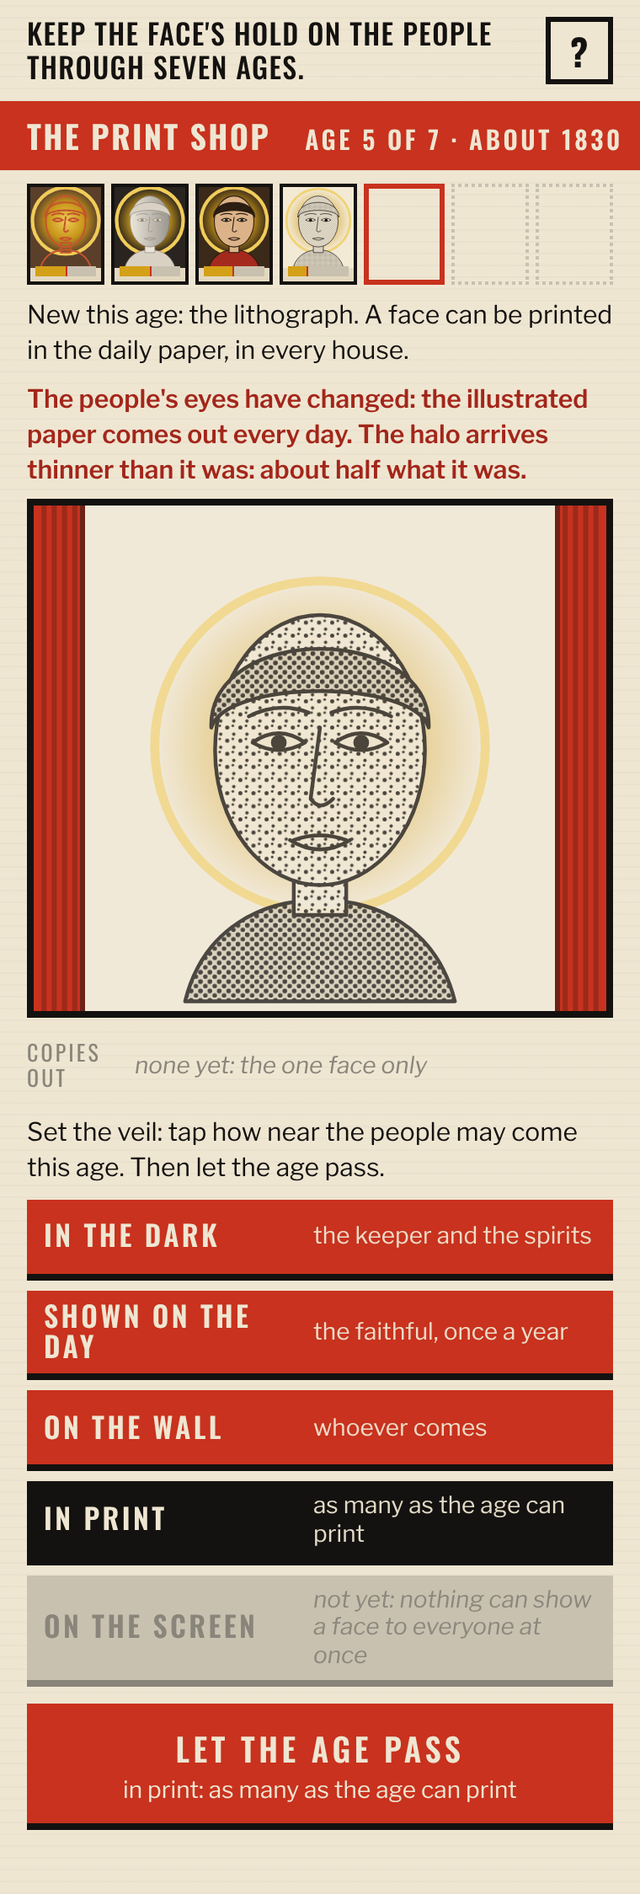
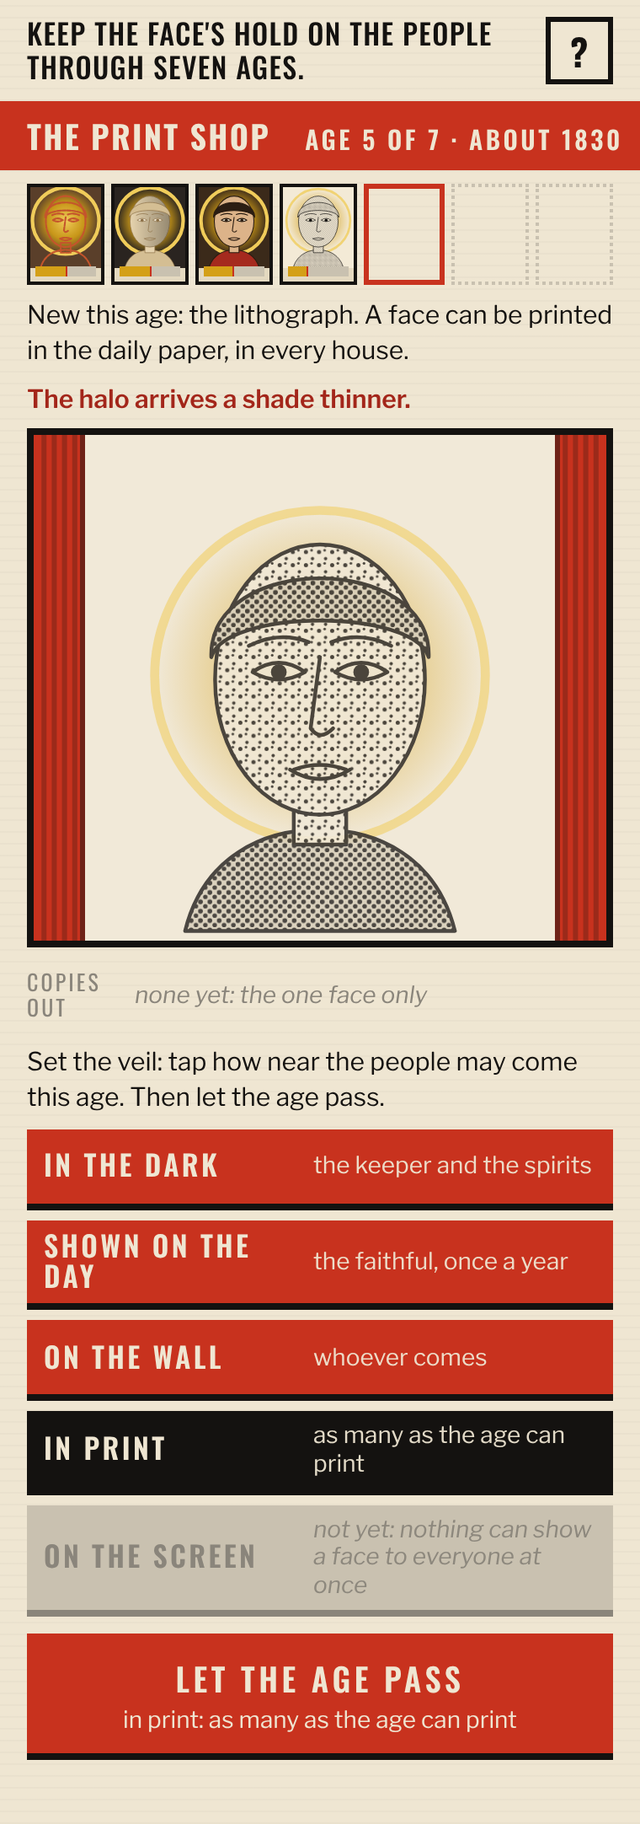
Benjamin's Veil: revisions after a first play
The picture carries over between ages; copies accumulate in the margin;
warm marble in the temple; the cause of the thinning said once, at the
photograph; the cathedral's announcement matches its options; the
announcements name places, never a veil state.

Claude-Session: https://claude.ai/code/session_018niUhzBZdEpLFr6WqyTscQ

Changed region(s): [[0.0, 0.0, 1.0, 0.9908], [0.6658, 0.0, 0.6961, 0.031]]

diff --git a/benjamin/benjamins-veil.html b/benjamin/benjamins-veil.html
@@ -229,7 +229,7 @@ h2{font-family:var(--display);font-weight:600;text-transform:uppercase;letter-sp
     AGES: [
       { key: 'cave', name: 'THE CAVE', date: 'LONG AGO', ceiling: 1, eyes: 1, demand: 0,
         technique: 'cave',
-        newThis: 'No way to copy a face yet. It is painted on the wall, for the spirits.',           // section V: the elk, a magic instrument
+        newThis: 'No way to copy a face yet. It is painted on the wall of the cave.',           // section V: the elk, a magic instrument
         eyesLine: null,
         notYet: 'nothing can carry it farther',
         reach: [0.02, 0.12, 0.2, 0.3, 0.9], crowd: ['you and the spirits', 'the clan', 'the clan', '', ''] },
@@ -241,7 +241,7 @@ h2{font-family:var(--display);font-weight:600;text-transform:uppercase;letter-sp
         reach: [0.02, 0.15, 0.22, 0.3, 0.9], crowd: ['you and the god', 'the city, at the festival', 'the city, in the forecourt', '', ''] },
       { key: 'cathedral', name: 'THE CATHEDRAL', date: 'THE MIDDLE AGES', ceiling: 2, eyes: 0.95, demand: 0.2,
         technique: 'icon',
-        newThis: 'New this age: the woodcut. A face can be cut in wood and printed, roughly, a few dozen times. Yours hangs veiled in the choir.', // section I; section V
+        newThis: 'New this age: the woodcut. Saints are being cut in wood and printed in the market, roughly — too roughly for this face. Yours hangs in the choir.', // section I; section V
         eyesLine: 'there are woodcuts of saints in the market now',
         notYet: 'the woodcut is too rough for this face',
         reach: [0.02, 0.18, 0.25, 0.3, 0.9], crowd: ['you and the saints', 'the parish, on the feast day', 'the parish, in the nave', '', ''] },
@@ -260,7 +260,7 @@ h2{font-family:var(--display);font-weight:600;text-transform:uppercase;letter-sp
       { key: 'studio', name: 'THE STUDIO', date: 'ABOUT 1880', ceiling: 3, eyes: 0.4, demand: 0.7,
         technique: 'halftone',
         newThis: 'New this age: the photograph. A face can be taken in a second and printed without end, into every house and every hand.', // section I; section VI
-        eyesLine: 'everyone has a photograph of their dead',
+        eyesLine: 'everyone has a photograph of their dead', sayCause: true, // the cause is said once, here (revision 4)
         notYet: 'the film is not here yet',
         reach: [0.02, 0.2, 0.3, 0.75, 0.9], crowd: ['you and the vault', 'the town, on the day', 'whoever comes to the museum', 'every house and every hand', ''] },
       { key: 'cinema', name: 'THE CINEMA', date: 'ABOUT 1930', ceiling: 4, eyes: 0.2, demand: 0.9,
@@ -347,8 +347,9 @@ h2{font-family:var(--display);font-weight:600;text-transform:uppercase;letter-sp
   function arrivalLine(s) {
     const age = currentAge(s);
     if (!age.eyesLine || s.haloBefore <= CONFIG.HALO_GONE) return '';
-    const changed = s.halo <= CONFIG.HALO_GONE ? 'The halo is gone.' : (s.halo < s.haloBefore * 0.97 ? 'The halo arrives thinner than it was: ' + haloWords(s.halo) + '.' : 'The halo arrives as it was.');
-    return 'The people\'s eyes have changed: ' + age.eyesLine + '. ' + changed;
+    const changed = s.halo <= CONFIG.HALO_GONE ? 'The halo is gone.' : (s.halo < s.haloBefore * 0.97 ? (haloWords(s.halo) === haloWords(s.haloBefore) ? 'The halo arrives a shade thinner.' : 'The halo arrives thinner than it was: ' + haloWords(s.halo) + '.') : 'The halo arrives as it was.');
+    // the fact every age; the cause (the people's eyes) once, at the age that carries it (the photograph)
+    return age.sayCause ? 'The people\'s eyes have changed: ' + age.eyesLine + '. ' + changed : changed;
   }
   function options(s) {
     const age = currentAge(s);
@@ -494,7 +495,7 @@ h2{font-family:var(--display);font-weight:600;text-transform:uppercase;letter-sp
   // ---------- the face, in the technique of its age (interface only: no rule lives here)
   const TECH = {
     cave:      { bg: '#5A3F2A', skin: 'none', line: '#C4552C', lw: 5, dash: '10 4', hair: 'none', robe: 'none', opacity: 1 },
-    temple:    { bg: '#2A2420', skin: '#ECE6DA', line: '#8D847A', lw: 1.6, hair: '#D9D2C4', robe: '#D9D2C4', shade: true },
+    temple:    { bg: '#2A2420', skin: '#E6D3AE', line: '#8A6E45', lw: 1.6, hair: '#D4BE93', robe: '#D4BE93', shade: true },  // warm stone on a dark cella (revision 3)
     icon:      { bg: '#3B2A1A', skin: '#DCB389', line: '#2B1D12', lw: 2.6, hair: '#2B1D12', robe: '#A52A1E' },
     engraving: { bg: '#F3EAD6', skin: 'hatch', line: INK, lw: 1.6, hair: 'cross', robe: 'cross' },
     litho:     { bg: '#F1E9D8', skin: 'stipple', line: '#3A3632', lw: 2, hair: 'stipple2', robe: 'stipple2', soft: true },
@@ -593,6 +594,8 @@ h2{font-family:var(--display);font-weight:600;text-transform:uppercase;letter-sp
 
   // ---------- state and screens
   let S = M.newGame(); let picked = null; let forkPicked = null; let lastScreen = 'start';
+  let copiesMade = []; // {tech, count} per age that printed; presentation only, the counts follow reach
+  const lastN = () => S.results.length ? C.VEILS[S.results[S.results.length - 1].veil].n : 0; // where the keeper left the curtains
   function show(id) { document.querySelectorAll('.screen').forEach(e => e.classList.remove('on')); $(id).classList.add('on'); window.scrollTo(0, 0); }
   function words(x) { return M.haloWords(x); }
 
@@ -610,8 +613,9 @@ h2{font-family:var(--display);font-weight:600;text-transform:uppercase;letter-sp
     renderStrip($('strip'), S);
     $('newthis').textContent = a.newThis;
     const al = M.arrivalLine(S); $('arrive').textContent = al; $('arrive').style.display = al ? 'block' : 'none';
-    drawFrame($('frame'), a.technique, S.halo, 0, 0);
-    $('copies').innerHTML = `<span class="lab">Copies out</span><span class="none">none yet: the one face only</span>`;
+    drawFrame($('frame'), a.technique, S.halo, lastN(), 0);  // the world as the player left it: last age's curtains, this age's halo, no crowd yet
+    $('frame').dataset.n = lastN();
+    renderCopies(null);
     const opts = M.options(S);
     $('veils').innerHTML = opts.map(o => `<button class="veil" data-i="${o.index}" ${o.allowed ? '' : 'disabled'}><span class="k">${o.label}</span><span class="w">${o.allowed ? o.who : 'not yet: ' + o.why}</span></button>`).join('');
     $('veils').querySelectorAll('.veil').forEach(b => b.addEventListener('click', () => pickVeil(+b.dataset.i)));
@@ -623,6 +627,7 @@ h2{font-family:var(--display);font-weight:600;text-transform:uppercase;letter-sp
     picked = i; const a = M.currentAge(S), v = C.VEILS[i];
     $('veils').querySelectorAll('.veil').forEach(b => b.classList.toggle('chosen', +b.dataset.i === i));
     drawFrame($('frame'), a.technique, S.halo, v.n, 0);   // the control shows what it does: the curtains part, the face comes nearer; nothing else moves
+    $('frame').dataset.n = v.n;
     $('commit').disabled = false; $('commitsub').textContent = v.label.toLowerCase() + ': ' + v.who;
   }
   function commitAge() {
@@ -631,14 +636,10 @@ h2{font-family:var(--display);font-weight:600;text-transform:uppercase;letter-sp
     const r = M.commit(S, picked);
     $('choose').style.display = 'none';
     drawFrame($('frame'), a.technique, r.halo, v.n, r.reach);
-    // copies out, in the age's technique
+    // copies out, in the age's technique; earlier ages' copies stay in the world (revision 2)
     const nCopies = picked >= 3 ? Math.min(14, Math.round(r.reach * 18)) : 0;
-    if (nCopies) {
-      let cs = `<svg viewBox="0 0 ${nCopies * 24 + 10} 40">`;
-      for (let i = 0; i < nCopies; i++) { const u = uid(); cs += `<g transform="translate(${i * 24 + 2} 2) scale(.16)">${defs(u)}<rect width="200" height="230" fill="${TECH[a.technique].bg}" stroke="${INK}" stroke-width="10"/>${faceMarkup(a.technique, u, 0, 0)}</g>`; }
-      cs += '</svg>';
-      $('copies').innerHTML = `<span class="lab">Copies out</span>${cs}<span class="none">${picked === 4 ? 'every screen' : r.reach > 0.5 ? '…and on, without end' : '…a few hundred'}</span>`;
-    } else $('copies').innerHTML = `<span class="lab">Copies out</span><span class="none">none: the one face only</span>`;
+    if (nCopies) copiesMade.push({ tech: a.technique, count: nCopies, note: picked === 4 ? 'every screen' : r.reach > 0.5 ? '…and on, without end' : '…a few hundred' });
+    renderCopies(nCopies ? copiesMade[copiesMade.length - 1] : null);
     $('line').textContent = r.line;
     $('holdwords').textContent = r.cult > r.reach * 2 ? 'most of it the halo' : r.reach > r.cult * 2 ? 'most of it the crowd' : 'the halo and the crowd alike';
     $('hold').innerHTML = `<rect x="0" y="0" width="${r.cult / 2 * 340}" height="20" fill="${GOLD}"/><rect x="${r.cult / 2 * 340}" y="0" width="${r.reach / 2 * 340}" height="20" fill="${RED}"/>`;
@@ -646,6 +647,17 @@ h2{font-family:var(--display);font-weight:600;text-transform:uppercase;letter-sp
     $('nextage').textContent = S.age === C.AGES.length - 1 ? 'On to 1936' : 'Next age';
     renderStrip($('strip'), S);
     setTimeout(() => { $('result').style.display = 'block'; }, 700);
+  }
+  function renderCopies(thisAge) { // all copies made so far, oldest first, each in the technique of the age that made it
+    const total = copiesMade.reduce((n, c) => n + c.count, 0);
+    if (!total) { $('copies').innerHTML = `<span class="lab">Copies out</span><span class="none">none yet: the one face only</span>`; return; }
+    const show = Math.min(14, total); let cs = `<svg viewBox="0 0 ${show * 24 + 10} 40" data-copies="${total}">`; let k = 0;
+    // keep the oldest copies visible: draw up to 14, taking from each age in proportion
+    const per = copiesMade.map(c => Math.max(1, Math.round(c.count * show / total)));
+    copiesMade.forEach((c, j) => { for (let i = 0; i < per[j] && k < show; i++, k++) { const u = uid(); cs += `<g transform="translate(${k * 24 + 2} 2) scale(.16)">${defs(u)}<rect width="200" height="230" fill="${TECH[c.tech].bg}" stroke="${INK}" stroke-width="10"/>${faceMarkup(c.tech, u, 0, 0)}</g>`; } });
+    cs += '</svg>';
+    const note = thisAge ? thisAge.note : 'from earlier ages';
+    $('copies').innerHTML = `<span class="lab">Copies out</span>${cs}<span class="none">${note}</span>`;
   }
   function nextAge() {
     M.next(S);
@@ -695,8 +707,8 @@ h2{font-family:var(--display);font-weight:600;text-transform:uppercase;letter-sp
   // ---------- wiring
   drawFrame({ set innerHTML(v) { $('startface').innerHTML = v; } }, 'icon', 1, 0.5, 0);
   (function () { const u = uid(); $('startface').innerHTML = defs(u) + `<rect width="200" height="230" fill="#3B2A1A"/>` + faceMarkup('icon', u, 1, 0); })();
-  $('begin').addEventListener('click', () => { S = M.newGame(); renderAge(); });
-  $('again').addEventListener('click', () => { S = M.newGame(); renderAge(); });
+  $('begin').addEventListener('click', () => { S = M.newGame(); copiesMade = []; renderAge(); });
+  $('again').addEventListener('click', () => { S = M.newGame(); copiesMade = []; renderAge(); });
   $('commit').addEventListener('click', commitAge);
   $('nextage').addEventListener('click', nextAge);
   $('forkcommit').addEventListener('click', commitFork);

diff --git a/benjamin/template.html b/benjamin/template.html
@@ -202,7 +202,7 @@ h2{font-family:var(--display);font-weight:600;text-transform:uppercase;letter-sp
   // ---------- the face, in the technique of its age (interface only: no rule lives here)
   const TECH = {
     cave:      { bg: '#5A3F2A', skin: 'none', line: '#C4552C', lw: 5, dash: '10 4', hair: 'none', robe: 'none', opacity: 1 },
-    temple:    { bg: '#2A2420', skin: '#ECE6DA', line: '#8D847A', lw: 1.6, hair: '#D9D2C4', robe: '#D9D2C4', shade: true },
+    temple:    { bg: '#2A2420', skin: '#E6D3AE', line: '#8A6E45', lw: 1.6, hair: '#D4BE93', robe: '#D4BE93', shade: true },  // warm stone on a dark cella (revision 3)
     icon:      { bg: '#3B2A1A', skin: '#DCB389', line: '#2B1D12', lw: 2.6, hair: '#2B1D12', robe: '#A52A1E' },
     engraving: { bg: '#F3EAD6', skin: 'hatch', line: INK, lw: 1.6, hair: 'cross', robe: 'cross' },
     litho:     { bg: '#F1E9D8', skin: 'stipple', line: '#3A3632', lw: 2, hair: 'stipple2', robe: 'stipple2', soft: true },
@@ -301,6 +301,8 @@ h2{font-family:var(--display);font-weight:600;text-transform:uppercase;letter-sp
 
   // ---------- state and screens
   let S = M.newGame(); let picked = null; let forkPicked = null; let lastScreen = 'start';
+  let copiesMade = []; // {tech, count} per age that printed; presentation only, the counts follow reach
+  const lastN = () => S.results.length ? C.VEILS[S.results[S.results.length - 1].veil].n : 0; // where the keeper left the curtains
   function show(id) { document.querySelectorAll('.screen').forEach(e => e.classList.remove('on')); $(id).classList.add('on'); window.scrollTo(0, 0); }
   function words(x) { return M.haloWords(x); }
 
@@ -318,8 +320,9 @@ h2{font-family:var(--display);font-weight:600;text-transform:uppercase;letter-sp
     renderStrip($('strip'), S);
     $('newthis').textContent = a.newThis;
     const al = M.arrivalLine(S); $('arrive').textContent = al; $('arrive').style.display = al ? 'block' : 'none';
-    drawFrame($('frame'), a.technique, S.halo, 0, 0);
-    $('copies').innerHTML = `<span class="lab">Copies out</span><span class="none">none yet: the one face only</span>`;
+    drawFrame($('frame'), a.technique, S.halo, lastN(), 0);  // the world as the player left it: last age's curtains, this age's halo, no crowd yet
+    $('frame').dataset.n = lastN();
+    renderCopies(null);
     const opts = M.options(S);
     $('veils').innerHTML = opts.map(o => `<button class="veil" data-i="${o.index}" ${o.allowed ? '' : 'disabled'}><span class="k">${o.label}</span><span class="w">${o.allowed ? o.who : 'not yet: ' + o.why}</span></button>`).join('');
     $('veils').querySelectorAll('.veil').forEach(b => b.addEventListener('click', () => pickVeil(+b.dataset.i)));
@@ -331,6 +334,7 @@ h2{font-family:var(--display);font-weight:600;text-transform:uppercase;letter-sp
     picked = i; const a = M.currentAge(S), v = C.VEILS[i];
     $('veils').querySelectorAll('.veil').forEach(b => b.classList.toggle('chosen', +b.dataset.i === i));
     drawFrame($('frame'), a.technique, S.halo, v.n, 0);   // the control shows what it does: the curtains part, the face comes nearer; nothing else moves
+    $('frame').dataset.n = v.n;
     $('commit').disabled = false; $('commitsub').textContent = v.label.toLowerCase() + ': ' + v.who;
   }
   function commitAge() {
@@ -339,14 +343,10 @@ h2{font-family:var(--display);font-weight:600;text-transform:uppercase;letter-sp
     const r = M.commit(S, picked);
     $('choose').style.display = 'none';
     drawFrame($('frame'), a.technique, r.halo, v.n, r.reach);
-    // copies out, in the age's technique
+    // copies out, in the age's technique; earlier ages' copies stay in the world (revision 2)
     const nCopies = picked >= 3 ? Math.min(14, Math.round(r.reach * 18)) : 0;
-    if (nCopies) {
-      let cs = `<svg viewBox="0 0 ${nCopies * 24 + 10} 40">`;
-      for (let i = 0; i < nCopies; i++) { const u = uid(); cs += `<g transform="translate(${i * 24 + 2} 2) scale(.16)">${defs(u)}<rect width="200" height="230" fill="${TECH[a.technique].bg}" stroke="${INK}" stroke-width="10"/>${faceMarkup(a.technique, u, 0, 0)}</g>`; }
-      cs += '</svg>';
-      $('copies').innerHTML = `<span class="lab">Copies out</span>${cs}<span class="none">${picked === 4 ? 'every screen' : r.reach > 0.5 ? '…and on, without end' : '…a few hundred'}</span>`;
-    } else $('copies').innerHTML = `<span class="lab">Copies out</span><span class="none">none: the one face only</span>`;
+    if (nCopies) copiesMade.push({ tech: a.technique, count: nCopies, note: picked === 4 ? 'every screen' : r.reach > 0.5 ? '…and on, without end' : '…a few hundred' });
+    renderCopies(nCopies ? copiesMade[copiesMade.length - 1] : null);
     $('line').textContent = r.line;
     $('holdwords').textContent = r.cult > r.reach * 2 ? 'most of it the halo' : r.reach > r.cult * 2 ? 'most of it the crowd' : 'the halo and the crowd alike';
     $('hold').innerHTML = `<rect x="0" y="0" width="${r.cult / 2 * 340}" height="20" fill="${GOLD}"/><rect x="${r.cult / 2 * 340}" y="0" width="${r.reach / 2 * 340}" height="20" fill="${RED}"/>`;
@@ -354,6 +354,17 @@ h2{font-family:var(--display);font-weight:600;text-transform:uppercase;letter-sp
     $('nextage').textContent = S.age === C.AGES.length - 1 ? 'On to 1936' : 'Next age';
     renderStrip($('strip'), S);
     setTimeout(() => { $('result').style.display = 'block'; }, 700);
+  }
+  function renderCopies(thisAge) { // all copies made so far, oldest first, each in the technique of the age that made it
+    const total = copiesMade.reduce((n, c) => n + c.count, 0);
+    if (!total) { $('copies').innerHTML = `<span class="lab">Copies out</span><span class="none">none yet: the one face only</span>`; return; }
+    const show = Math.min(14, total); let cs = `<svg viewBox="0 0 ${show * 24 + 10} 40" data-copies="${total}">`; let k = 0;
+    // keep the oldest copies visible: draw up to 14, taking from each age in proportion
+    const per = copiesMade.map(c => Math.max(1, Math.round(c.count * show / total)));
+    copiesMade.forEach((c, j) => { for (let i = 0; i < per[j] && k < show; i++, k++) { const u = uid(); cs += `<g transform="translate(${k * 24 + 2} 2) scale(.16)">${defs(u)}<rect width="200" height="230" fill="${TECH[c.tech].bg}" stroke="${INK}" stroke-width="10"/>${faceMarkup(c.tech, u, 0, 0)}</g>`; } });
+    cs += '</svg>';
+    const note = thisAge ? thisAge.note : 'from earlier ages';
+    $('copies').innerHTML = `<span class="lab">Copies out</span>${cs}<span class="none">${note}</span>`;
   }
   function nextAge() {
     M.next(S);
@@ -403,8 +414,8 @@ h2{font-family:var(--display);font-weight:600;text-transform:uppercase;letter-sp
   // ---------- wiring
   drawFrame({ set innerHTML(v) { $('startface').innerHTML = v; } }, 'icon', 1, 0.5, 0);
   (function () { const u = uid(); $('startface').innerHTML = defs(u) + `<rect width="200" height="230" fill="#3B2A1A"/>` + faceMarkup('icon', u, 1, 0); })();
-  $('begin').addEventListener('click', () => { S = M.newGame(); renderAge(); });
-  $('again').addEventListener('click', () => { S = M.newGame(); renderAge(); });
+  $('begin').addEventListener('click', () => { S = M.newGame(); copiesMade = []; renderAge(); });
+  $('again').addEventListener('click', () => { S = M.newGame(); copiesMade = []; renderAge(); });
   $('commit').addEventListener('click', commitAge);
   $('nextage').addEventListener('click', nextAge);
   $('forkcommit').addEventListener('click', commitFork);

diff --git a/benjamin/mechanism.js b/benjamin/mechanism.js
@@ -24,7 +24,7 @@
     AGES: [
       { key: 'cave', name: 'THE CAVE', date: 'LONG AGO', ceiling: 1, eyes: 1, demand: 0,
         technique: 'cave',
-        newThis: 'No way to copy a face yet. It is painted on the wall, for the spirits.',           // section V: the elk, a magic instrument
+        newThis: 'No way to copy a face yet. It is painted on the wall of the cave.',           // section V: the elk, a magic instrument
         eyesLine: null,
         notYet: 'nothing can carry it farther',
         reach: [0.02, 0.12, 0.2, 0.3, 0.9], crowd: ['you and the spirits', 'the clan', 'the clan', '', ''] },
@@ -36,7 +36,7 @@
         reach: [0.02, 0.15, 0.22, 0.3, 0.9], crowd: ['you and the god', 'the city, at the festival', 'the city, in the forecourt', '', ''] },
       { key: 'cathedral', name: 'THE CATHEDRAL', date: 'THE MIDDLE AGES', ceiling: 2, eyes: 0.95, demand: 0.2,
         technique: 'icon',
-        newThis: 'New this age: the woodcut. A face can be cut in wood and printed, roughly, a few dozen times. Yours hangs veiled in the choir.', // section I; section V
+        newThis: 'New this age: the woodcut. Saints are being cut in wood and printed in the market, roughly — too roughly for this face. Yours hangs in the choir.', // section I; section V
         eyesLine: 'there are woodcuts of saints in the market now',
         notYet: 'the woodcut is too rough for this face',
         reach: [0.02, 0.18, 0.25, 0.3, 0.9], crowd: ['you and the saints', 'the parish, on the feast day', 'the parish, in the nave', '', ''] },
@@ -55,7 +55,7 @@
       { key: 'studio', name: 'THE STUDIO', date: 'ABOUT 1880', ceiling: 3, eyes: 0.4, demand: 0.7,
         technique: 'halftone',
         newThis: 'New this age: the photograph. A face can be taken in a second and printed without end, into every house and every hand.', // section I; section VI
-        eyesLine: 'everyone has a photograph of their dead',
+        eyesLine: 'everyone has a photograph of their dead', sayCause: true, // the cause is said once, here (revision 4)
         notYet: 'the film is not here yet',
         reach: [0.02, 0.2, 0.3, 0.75, 0.9], crowd: ['you and the vault', 'the town, on the day', 'whoever comes to the museum', 'every house and every hand', ''] },
       { key: 'cinema', name: 'THE CINEMA', date: 'ABOUT 1930', ceiling: 4, eyes: 0.2, demand: 0.9,
@@ -142,8 +142,9 @@
   function arrivalLine(s) {
     const age = currentAge(s);
     if (!age.eyesLine || s.haloBefore <= CONFIG.HALO_GONE) return '';
-    const changed = s.halo <= CONFIG.HALO_GONE ? 'The halo is gone.' : (s.halo < s.haloBefore * 0.97 ? 'The halo arrives thinner than it was: ' + haloWords(s.halo) + '.' : 'The halo arrives as it was.');
-    return 'The people\'s eyes have changed: ' + age.eyesLine + '. ' + changed;
+    const changed = s.halo <= CONFIG.HALO_GONE ? 'The halo is gone.' : (s.halo < s.haloBefore * 0.97 ? (haloWords(s.halo) === haloWords(s.haloBefore) ? 'The halo arrives a shade thinner.' : 'The halo arrives thinner than it was: ' + haloWords(s.halo) + '.') : 'The halo arrives as it was.');
+    // the fact every age; the cause (the people's eyes) once, at the age that carries it (the photograph)
+    return age.sayCause ? 'The people\'s eyes have changed: ' + age.eyesLine + '. ' + changed : changed;
   }
   function options(s) {
     const age = currentAge(s);

diff --git a/benjamin/session-test.js b/benjamin/session-test.js
@@ -13,7 +13,7 @@ const L = []; const say = s => { L.push(s); console.log(s); };
   const text = async sel => (await page.$eval(sel, e => e.innerText)).replace(/\n+/g, ' | ');
   await shot('start'); await noScroll();
   await page.click('#begin'); await page.waitForTimeout(300);
-  const plan = [0, 0, 0, 1, 3, 3, 4];
+  const plan = [0, 0, 0, 1, 3, 3, 4]; let copiesSoFar = 0;
   for (let i = 0; i < 7; i++) {
     say(`\n== ${await text('#agename')} (${await text('#agemeta')})`);
     say('   new: ' + await text('#newthis'));
@@ -21,16 +21,23 @@ const L = []; const say = s => { L.push(s); console.log(s); };
     const slabs = await page.$$eval('#veils .veil', bs => bs.map(b => (b.disabled ? '(' : '') + b.innerText.replace(/\n/g, ' — ') + (b.disabled ? ')' : '')));
     say('   slabs: ' + slabs.join(' / '));
     if (!(await page.$eval('#commit', b => b.disabled))) say('   !! commit enabled before a slab was tapped');
+    if (await page.$('#veils .veil.chosen')) say('   !! a slab is pre-selected at age start');
+    const nStart = +(await page.$eval('#frame', e => e.dataset.n)); const nPrev = i ? [0, 0, 0, 0.25, 0.75, 0.75, 1][i - 1] : 0;
+    if (nStart !== nPrev) say(`   !! frame at age start shows nearness ${nStart}, previous veil was ${nPrev}`); else say(`   frame at age start: curtains where the last age left them (nearness ${nStart})`);
+    const copiesAtStart = await page.$eval('#copies', e => { const s = e.querySelector('svg'); return s ? +s.dataset.copies : 0; });
+    if (copiesAtStart < copiesSoFar) say(`   !! copies at age start fell from ${copiesSoFar} to ${copiesAtStart}`); else say(`   copies in the world at age start: ${copiesAtStart}`);
     if (i === 0) await shot('age1-cave');
+    if (i === 1) await shot('age2-temple');
+    if (i === 5) await shot('age6-studio-arrives-as-left');
     if (i === 3) { await page.click('#play .qbtn'); await page.waitForTimeout(200); await shot('help'); await page.click('#helpback'); await page.waitForTimeout(200); say('   help opened and returned to ' + await page.$eval('.screen.on', e => e.id)); }
     await page.click(`#veils .veil[data-i="${plan[i]}"]`); await page.waitForTimeout(250);
     say('   > tapped ' + slabs[plan[i]] + '; commit says: ' + await text('#commit'));
     if (await page.$('#result:not([style*="none"])')) say('   !! result visible before commit');
     if (i === 4) { await shot('age5-veil-set'); await noScroll(); }
-    if (i === 5) await shot('age6-studio-arrives');
     await page.click('#commit'); await page.waitForTimeout(1200);
     say('   line: ' + await text('#line'));
     say('   hold: ' + await text('#holdwords') + ' | copies: ' + await text('#copies'));
+    copiesSoFar = await page.$eval('#copies', e => { const s = e.querySelector('svg'); return s ? +s.dataset.copies : 0; });
     say('   counterfactual: ' + (await page.$$eval('#cfrow .c', cs => cs.map(c => (c.classList.contains('me') ? '[' : '') + c.innerText + (c.classList.contains('me') ? ']' : '') + (c.classList.contains('no') ? '(na)' : '')).join(' / '))));
     if (i === 0 || i === 3 || i === 4 || i === 5 || i === 6) await shot(`age${i + 1}-passed`);
     await noScroll();

diff --git a/benjamin/calibration.js b/benjamin/calibration.js
@@ -100,6 +100,9 @@ check('W2 every veil slab and every fork slab has a label and a meaning', C.VEIL
 check('W3 every age has a technique, a line for what is new, and a crowd word up to its ceiling', C.AGES.every(a => a.technique && a.newThis && a.crowd.slice(0, a.ceiling + 1).every(c => c)));
 check('W4 halo words cover the range', ['bright', 'a little thinner', 'about half what it was', 'a quarter of what it was', 'almost gone', 'gone'].every((w, i) => M.haloWords([1, 0.7, 0.5, 0.25, 0.1, 0.01][i]) === w));
 check('W5 the verdict for a sensible path names the turn', /Benjamin dates the turn/.test(M.verdict(M.runSchedule([0, 0, 0, 0, 3, 3, 4])).did));
+{ const t = M.newGame(); const causes = []; for (let i = 0; i < 7; i++) { M.arrive(t); causes.push(/eyes have changed/.test(M.arrivalLine(t))); M.commit(t, 0); M.next(t); }
+  check('W7 the arrival line names the cause once, at the studio, and states the fact elsewhere', causes.filter(Boolean).length === 1 && causes[5] === true, causes.map(c => c ? 'cause' : 'fact').join(' ')); }
+check('W8 no announcement says whether the face is hidden or shown', C.AGES.every(a => !/veil|hidden|shown|in the dark/i.test(a.newThis)));
 check('W6 the verdict for the always-veiled path says the halo went anyway', /went anyway/.test(M.verdict(M.runSchedule([0, 0, 0, 0, 0, 0, 0])).did));
 
 const head = `Benjamin's Veil — calibration result (${new Date().toISOString().slice(0, 10)})\n${pass} passed, ${fail} failed\n`;

diff --git a/benjamin/memo.md b/benjamin/memo.md
@@ -192,3 +192,16 @@ Both ends are punished (always veiled and always the widest veil each land at ab
 6. Browser session (`session-test.js`, `session-log.txt`): veil down through three ages, shown on the day at the court, print at the print shop and the studio, the screen at the cinema; help opened from the court and returned to it; the rally and its overlay; the verdict; About and back; a second run never lifting the veil, the newsreel, its verdict. No page errors (the visitor counter's script is blocked in the sandbox, as expected); no horizontal scroll at 380 px; the commit button is disabled until a slab is tapped and no result is visible before the commit. Length about five minutes, estimated.
 
 Self-review from the screenshots: the aim can be stated from the start screen alone ("keep the face's hold on the people through seven ages"); the discovery can be stated from the top of the end screen alone ("the halo was never in the face; the age sets the distance"); the look (cream poster, red slabs, condensed capitals, a halftone face) resembles no game in the table.
+
+## 19. Revisions after play (31 Oct 2026)
+
+Six changes after a first play by the author; the register, the mechanism's numbers, the fork and the verdict are as they were.
+
+1. **The picture carries over.** The frame at the start of an age was drawn in the dark until a slab was tapped, so a keeper who had shown the face saw it locked away again. Now the frame at age start shows the world as the player left it: the curtains where last age's veil put them, the face at that nearness, the halo as it now is (already thinned by this age's arrival), and no crowd yet. The slabs still start unselected every age (no carry-over of the control); tapping one moves the curtains from where they are. Age one starts in the dark. The session test checks the frame's nearness at each age start against the previous veil.
+2. **Copies accumulate.** "Copies out" reset to "none yet" at every age start, as if the prints of earlier ages had vanished. Copies made in earlier ages now stay in the margin across ages, each in the technique of the age that made them (engraving, lithograph, photograph, film), and this age's are added when it passes; "none yet: the one face only" only while no age has printed. The session test checks the count never falls between ages. Presentation only: the counts follow the mechanism's reach as before.
+3. **The marble.** The temple's thumbnail read as greyscale in the strip. The stone is now warm cream on the dark cella, with warm lines, so the slot reads as a statue; the technique rule (the face drawn in the technique of its age) stands.
+4. **Say the cause once.** The arrival line gave "The people's eyes have changed: <reason>" from the cathedral on, explaining the discovery four times before the photograph. From the cathedral to the print shop it now states only the fact ("The halo arrives thinner than it was: about half what it was", or "a shade thinner" where the words would not change); at the studio, the full line with the cause, once; at the cinema the fact again. A calibration check (W7) holds this. The verdict keeps its explanation and Help its sentence.
+5. **The cathedral's announcement contradicted its options.** It said a face could be cut in wood and printed while "in print" was greyed as too rough. The ceiling and the reason stay; the announcement now reads: "New this age: the woodcut. Saints are being cut in wood and printed in the market, roughly — too roughly for this face. Yours hangs in the choir."
+6. **Announcements name a place, never a veil state.** "Veiled" is gone from the cathedral's line; the cave's line now says where the face is (the wall of the cave) rather than whom it is for. All seven say where the face is this age (the cave wall, the cella, the choir, the prince's gallery) and not whether it is hidden or shown, which is the player's and is carried by the picture. A calibration check (W8) holds this.
+
+Calibration 33/33; the session test (two runs) passes with the two new checks; screenshots refreshed, including `screenshot-age2-temple.png` (the warm marble, the curtains as left) and `screenshot-age6-studio-arrives-as-left.png` (the studio arriving with last age's curtains open to print and the print shop's copies still in the margin).

diff --git a/benjamin/author-note.md b/benjamin/author-note.md
@@ -1,7 +1,9 @@
 # Benjamin's Veil — note for the author
 
 1. Look first at `screenshot-age5-veil-set.png` (the print shop: the curtains parted to "in print", the lithographed face, the halo thin before anything was done) and `screenshot-age6-passed.png` (the studio: the halftone face, the crowd in, the halo gone, and the counterfactual row showing it gone at every veil). Then `screenshot-fork-rally-war.png` and `screenshot-end-veiled.png` (the never-lifted run's verdict: the halo went anyway).
-2. Everything tunable is in the `CONFIG` block at the top of `mechanism.js`, the only copy of the mechanism: the five veils and their nearness, the seven ages with their eyes multiplier, demand, reach table and ceiling (each tagged with the section of the essay it was read from), the price of the crowd against the halo (`W_CROWD`), the demand cut, and the four 1936 places. Edit, run `node calibration.js` (31 checks against the essay's claims and the game's framing, including the heuristics table and the robustness runs), then `python3 build.py`, which refuses to finish if the embedded mechanism differs from the file.
+2. Everything tunable is in the `CONFIG` block at the top of `mechanism.js`, the only copy of the mechanism: the five veils and their nearness, the seven ages with their eyes multiplier, demand, reach table and ceiling (each tagged with the section of the essay it was read from), the price of the crowd against the halo (`W_CROWD`), the demand cut, and the four 1936 places. Edit, run `node calibration.js` (33 checks against the essay's claims and the game's framing, including the heuristics table and the robustness runs), then `python3 build.py`, which refuses to finish if the embedded mechanism differs from the file.
 3. What we were least sure about: (a) the whole thing is a toy; the essay has no numbers, so every number is ours, and the About screen says so three times. The thing to argue with is the eyes schedule (1, 1, .95, .85, .7, .4, .2): it puts the big drops at lithography and photography, following sections I and VI, and it is what makes hiding fail. (b) The price: hold is halo plus reach at equal weight; the robustness runs show the optimum stays between the court and the studio at half and double price, but at double price "always the widest veil" gets within a tenth of the best, so the lesson "show early and the age cannot carry it" is weaker if the crowd is priced high. (c) The fork is the essay's politics put before a keeper as a choice; it is not scored, and the rally's "WAR" overlay is the epilogue in one word. Whether that lands or lectures is for a stranger to say.
 
-This game has had the builder's review only: screenshots and a scripted browser session at 380 px (two runs: a sensible path ending at the rally, and the never-lifted path ending at the newsreel). It has not been played by real strangers, and the five-minute length is an estimate.
+Revised once after a first play (memo, section 19): the picture now carries over between ages, copies accumulate, the marble is warm, the cause of the thinning is said once, and the announcements name places only.
+
+This game has had the builder's review and one play only: screenshots and a scripted browser session at 380 px (two runs: a sensible path ending at the rally, and the never-lifted path ending at the newsreel). It has not been played by real strangers, and the five-minute length is an estimate.
